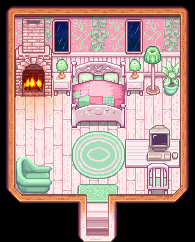
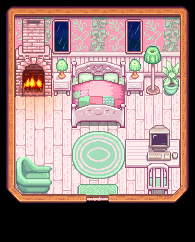
His flat-door empty cabin: no stairs, door in the bottom wall, every room theme updated, door spots moved

Changed region(s): [[0.4, 0.781, 0.6154, 1.0]]

diff --git a/index.html b/index.html
@@ -1024,7 +1024,7 @@ SKINS.forEach(s=>{if(s.rar!=='common')s.from='Mafia Case';});
 const OWNED=new Set(SKINS.filter(s=>s.rar==='common').map(s=>s.id).concat('r_classic')); // what this player has unlocked: the common outfits to start, the rest come from the Mafia case
 const ROLE_SPR={mafia:'mafia',doctor:'doctor',jester:'jester',detective:'detective'};
 const IMG={};
-const BUILD='11131538'; // changes every push, so phones never show an old picture from their cache
+const BUILD='11131545'; // changes every push, so phones never show an old picture from their cache
 document.getElementById('buildTag').textContent='v'+BUILD; // which version this is, so an old cached copy is easy to spot
 /* ================= CABIN ROOMS (12 Nov 2026): what the Cabin Case holds =================
    Each room is ONE picture of the whole room in the game's 195x242 grid (assets/rooms/<id>.png, shrunk from his
@@ -1696,18 +1696,18 @@ scenes.vote={
 
 /* ---- CABIN: an empty room + furniture placed as objects (195 x 242 grid) ---- */
 const ROOM={
-  floor:[16,76,180,194], stairs:[84,194,112,232],
+  floor:[16,76,180,194], stairs:[84,194,112,197],   /* no stairs since 13 Nov (his flat door): just the doorway in the bottom wall */
   block:[[15,60,53,97],[52,60,71,97],[71,60,126,129],[126,60,145,97],[145,55,181,97],[126,136,181,196]],
   bed:{hit:[71,60,126,129],stand:[98,134],in:[98,106],head:[98,86],quilt:[72,88,125,128]},
   chair:{hit:[145,160,170,196],stand:[121,186],sit:[157,180],back:[146,168,171,194]},
   pc:{hit:[145,122,172,162]},
   arm:{hit:[15,155,53,194],stand:[60,182],sit:[36,184],front:[15,183,54,194]},
-  door:{hit:[84,194,112,240],stand:[98,226]},
+  door:{hit:[84,186,112,240],stand:[98,195]},
   fire:[23,75,22,16],   // the fireplace stands top-left against the back wall (his call, 10 Nov)
   windows:[[54,20,15,30],[127,20,15,30]],
 };
 const BED_LINE=80; // the fold of the sheet, in room pixels
-const CAB={x:98,y:200,tgt:null,path:null,dir:'back',walk:false,state:'stand',after:null,anim:null,clock:30,zz:[],pc:0};
+const CAB={x:98,y:190,tgt:null,path:null,dir:'back',walk:false,state:'stand',after:null,anim:null,clock:30,zz:[],pc:0};
 const inR=(r,x,y)=>x>=r[0]&&x<r[2]&&y>=r[1]&&y<r[3];
 function canStand(x,y){if(!(inR(ROOM.floor,x,y)||inR(ROOM.stairs,x,y)))return false;return!ROOM.block.some(r=>inR(r,x,y));}
 let ROOM_MASK=null,ROOM_VOID='#000',ROOM_OBJS=[];
@@ -1857,8 +1857,8 @@ cv.addEventListener('pointerdown',e=>{
   if(inR(B.hit,x,y)){intoBed();return;}
   if(inR(AR.hit,x,y)){intoArm();return;}
   if(inR(ROOM.door.hit,x,y)){goTo(ROOM.door.stand,()=>toast(raining?'You peek outside. It\'s pouring.':'You peek outside. All quiet…'));return;}
-  goTo([clamp(x,17,179),clamp(y,77,231)]);
-  holdWalk(e,scenes.cabin,(x,y)=>{if(CAB.state==='stand')goTo([clamp(x,17,179),clamp(y,77,231)]);});
+  goTo([clamp(x,17,179),clamp(y,77,193)]);
+  holdWalk(e,scenes.cabin,(x,y)=>{if(CAB.state==='stand')goTo([clamp(x,17,179),clamp(y,77,193)]);});
 });
 $('#pcYes').onclick=()=>{$('#pcModal').classList.remove('on');ckOpen();};
 $('#pcNo').onclick=()=>{$('#pcModal').classList.remove('on');};
@@ -2242,7 +2242,7 @@ PLAY.note=(T,dt,t)=>{const{rt,L,TW,VS,tSq,tM,vic:c,spot}=N,tA=N.tArr,tS=tA+.25,P
   if(T>tS)once('scr',()=>{N.shake=5;sfx('scream');});
   return{cx,cy,vw,people:P,doors:[[N.vci,doorK(T,TW-.2,TW+.8)]],texts,dark:Math.max(1-ramp(T,TW,TW+.7),0),lights:{dim:T<tSq-.5?.5:lerp(.5,.85,ramp(T,tSq-.5,tSq+.5)),lampK:T<tSq-.5?.55:1},flash:['170,10,20',pulse2(T,tS+.1)*.3]};};
 /* the cabin part: k = seconds since it began */
-function noteRoom(k,dt,t){$('#phone').style.background=ROOM_VOID;const nm=looksLike(N.victim),A=ROOM.arm,spot=[98,206],P=[];
+function noteRoom(k,dt,t){$('#phone').style.background=ROOM_VOID;const nm=looksLike(N.victim),A=ROOM.arm,spot=[98,184],P=[];
   useRoom(roomOf(N.victim));view(IMG.room,97,121,186,{fit:true,topCss:80,void:ROOM_VOID});
   rain(dt,ROOM.windows.map(w=>[X(w[0]),Y(w[1]),w[2],w[3]]));fireAcc+=dt;while(fireAcc>.06){stepFire();fireAcc-=.06;}
   const tUp=3,tAt=4.6,tPick=5.6,tRead=6,tDone=9.4,sit=k<tUp;
@@ -2251,9 +2251,9 @@ function noteRoom(k,dt,t){$('#phone').style.background=ROOM_VOID;const nm=looksL
   else if(k<tAt){const e=ramp(k,tUp,tAt);P.push({name:nm,dir:dirFrom(spot[0]-A.stand[0],spot[1]-A.stand[1]),x:lerp(A.stand[0],spot[0],e),y:lerp(A.stand[1],spot[1],e),t,walk:true,vic:true});}
   else if(k<tPick)P.push({name:nm,dir:'right',pose:'bend',x:spot[0]-4,y:spot[1],t,vic:true});
   else if(k<tDone)P.push({name:nm,dir:'front',x:spot[0],y:spot[1],t,vic:true});
-  else{const e=ramp(k,tDone,tDone+.8);P.push({name:nm,dir:'front',x:spot[0],y:lerp(spot[1],226,e),t,walk:true,alpha:1-ramp(k,tDone+.4,tDone+.9),vic:true});}
+  else{const e=ramp(k,tDone,tDone+.8);P.push({name:nm,dir:'front',x:spot[0],y:lerp(spot[1],197,e),t,walk:true,alpha:1-ramp(k,tDone+.4,tDone+.9),vic:true});}
   const hits=drawScene(P,null,IMG.room,ROOM_OBJS);if(sit)patchObj('armchair',A.front);
-  if(k>1.9&&k<tPick-.2){const ny=lerp(238,214,ease(ramp(k,1.9,2.5)));px(96,ny-1,9,6,'#1a1430');px(97,ny,7,4,'#f6ecd2');px(98,ny+1,4,1,'#b9a98a');px(98,ny+2,3,1,'#b9a98a');}   /* the note on the floor */
+  if(k>1.9&&k<tPick-.2){const ny=lerp(197,188,ease(ramp(k,1.9,2.5)));px(96,ny-1,9,6,'#1a1430');px(97,ny,7,4,'#f6ecd2');px(98,ny+1,4,1,'#b9a98a');px(98,ny+2,3,1,'#b9a98a');}   /* the note on the floor */
   const fl=.5+.5*noise(t*1.7,2);lights(roomLights(fl,0),t,ROOM_MASK);
   if(k>2.6&&k<tUp+.3){const h=hits.get(P[0]);if(h){lx.fillStyle='#1a1430';lx.fillRect(h.cx+5,h.top-9,4,8);lx.fillStyle='#ffd25e';lx.fillRect(h.cx+6,h.top-8,2,4);lx.fillRect(h.cx+6,h.top-3,2,1);}}   /* "!" : they noticed */
   /* THE CLOSE-UP: the note, big, written out a letter at a time */
@@ -2892,7 +2892,7 @@ function ghostCards(){$('#ghostCards').innerHTML=PEOPLE.map((p,i)=>i?`<div class
 // into a cabin (ci >= 0) or back outside (-1): the screen fades to black, the place changes, and it fades back in
 function ghostDoor(ci){if(G.fading||G.inCab===ci)return;G.fading=true;sfx('door');const xf=$('#xfade');xf.classList.add('on');
   setTimeout(()=>{const was=G.inCab;G.inCab=ci;G.goCab=-1;
-    if(ci>=0){G.rx=G.rtx=98;G.ry=G.rty=206;G.dir='back';$('#phone').style.background=ROOM_VOID;}   // you arrive just inside the door
+    if(ci>=0){G.rx=G.rtx=98;G.ry=G.rty=188;G.dir='back';$('#phone').style.background=ROOM_VOID;}   // you arrive just inside the door
     else{const c=TOWN.cabins[was];if(c){G.x=G.tx=c.cx;G.y=G.ty=c.top+44;}G.dir='front';$('#phone').style.background='';}
     ghostCards();ghostHud();xf.classList.remove('on');setTimeout(()=>G.fading=false,230);},240);}
 function ghostWatch(i){if(V.dead.has(i)){G.watch=-1;$('#ghostLine').textContent=`${PEOPLE[i].n} is dead too.`;return;}
@@ -2985,7 +2985,7 @@ function ghostRoom(dt,t){
   const kk=i===N.victim&&N.kind==='home'?N.t-(N.tCut-6):-1;
   if(kk>0){people.length=0;cover=null;head=false;people.push(...killRoom(looksLike(i),kk,N.heal,t));}
   {const dx=G.rtx-G.rx,dy=G.rty-G.ry,dd=Math.hypot(dx,dy),sp=80*dt;
-    if(dd>sp){G.rx+=dx/dd*sp;G.ry+=dy/dd*sp;G.dir=dirFrom(dx,dy);}else{G.rx=G.rtx;G.ry=G.rty;if(G.ry>=214&&!G.fading){G.watch=-1;ghostDoor(-1);}}}   // you chose to leave: stop following
+    if(dd>sp){G.rx+=dx/dd*sp;G.ry+=dy/dd*sp;G.dir=dirFrom(dx,dy);}else{G.rx=G.rtx;G.ry=G.rty;if(G.ry>=195&&!G.fading){G.watch=-1;ghostDoor(-1);}}}   // you chose to leave: stop following
   const gme=ghostMe(G.rx,G.ry,t);people.push(gme);
   const hits=drawScene(people,null,IMG.room,ROOM_OBJS);
   if(head){const d=SP[nm].front,crop=Math.min(d.h,d.eyeBot+10),hx=X(ROOM.bed.head[0])-Math.floor(d.w/2),hy=Y(BED_LINE)-(d.eyeBot+3);lx.drawImage(d.frames[0][1],0,0,d.w,crop,hx,hy,d.w,crop);drawQuilt(1);}
@@ -2997,10 +2997,10 @@ function ghostRoom(dt,t){
   for(const[q,h]of hits){if(q===gme)nameTag(h,'You','#9fd8ff');else if(q.doc&&(q.alpha??1)>.8)nameTag(h,'Doctor','#9fe8b0');else if(q.name!=='mafia'&&i>=0&&!q.doc)nameTag(h,PEOPLE[i].n,'#fff');}
   drawMini(GAME.on?ghostOut():PLAY[N.kind](N.t,0,t),t);ghostHud();}
 cv.addEventListener('pointerdown',e=>{if(scene!==scenes.ghost||G.fading||document.querySelector('.modal.on'))return;
-  holdWalk(e,scenes.ghost,(x,y)=>{if(G.fading)return;if(G.inCab>=0){if(y<=196){G.rtx=clamp(x,20,176);G.rty=clamp(y+12,74,196);}}else{G.tx=clamp(x,20,540);G.ty=clamp(y+12,40,740);G.goCab=-1;}});
+  holdWalk(e,scenes.ghost,(x,y)=>{if(G.fading)return;if(G.inCab>=0){if(y<=186){G.rtx=clamp(x,20,176);G.rty=clamp(y+12,74,190);}}else{G.tx=clamp(x,20,540);G.ty=clamp(y+12,40,740);G.goCab=-1;}});
   const r=cv.getBoundingClientRect(),x=(e.clientX-r.left)*DPR/S+cam.x+(cam.fx||0),y=(e.clientY-r.top)*DPR/S+cam.y+(cam.fy||0);
   if(G.inCab>=0){ // in a cabin: fly anywhere in the room (ghosts go over the furniture); the doorway at the bottom leads out
-    if(y>196){G.rtx=98;G.rty=222;}else{G.rtx=clamp(x,20,176);G.rty=clamp(y+12,74,196);}return;}
+    if(y>186){G.rtx=98;G.rty=197;}else{G.rtx=clamp(x,20,176);G.rty=clamp(y+12,74,190);}return;}
   G.watch=-1;
   const ci=TOWN.cabins.findIndex(c=>Math.abs(x-c.cx)<44&&y>c.top-70&&y<c.top+34);
   if(ci>=0){const c=TOWN.cabins[ci];G.tx=c.cx;G.ty=c.top+30;G.goCab=ci;}else{G.tx=clamp(x,20,540);G.ty=clamp(y+12,40,740);G.goCab=-1;}});
@@ -3159,17 +3159,17 @@ function wlHit(e,a){const tg=a.tg;if(tg.loc!==e.loc||tg.ko||(!e.remote&&Math.hyp
 // in and out of a cabin. You: the screen fades through black. Bots just come and go.
 function wlDoor(ci){if(WL.fading)return;WL.fading=true;sfx('door');const xf=$('#xfade');xf.classList.add('on');
   setTimeout(()=>{const m=WL.me,was=m.loc;m.seat=null;m.loc=ci;m.path=[];m.todo=null;m.walk=false;WL.sel=null;wlMenu();
-    if(ci>=0){m.x=98;m.y=214;m.dir='back';$('#phone').style.background=ROOM_VOID;const o=CABIN_OF.indexOf(ci);
+    if(ci>=0){m.x=98;m.y=190;m.dir='back';$('#phone').style.background=ROOM_VOID;const o=CABIN_OF.indexOf(ci);
       wlHead(o===0?'Your cabin':o>0?`${PEOPLE[o].n}'s cabin`:'An empty cabin','Walk to the door to leave');}
     else{const c=TOWN.cabins[was];m.x=c.cx;m.y=c.top+38;m.dir='front';$('#phone').style.background='';wlHead();}
     $('#townCount').style.display=ci>=0?'none':'';netMove();xf.classList.remove('on');setTimeout(()=>WL.fading=false,230);},240);}
 function wlBotDoor(b,ci){const was=b.loc;b.path=[];b.todo=null;b.walk=false;
-  if(ci>=0){b.loc=ci;b.x=98;b.y=212;b.dir='back';b.stay=2+Math.floor(Math.random()*3);if(WL.me.loc===ci)wlSay(`${wlName(b)} came in.`);}
+  if(ci>=0){b.loc=ci;b.x=98;b.y=190;b.dir='back';b.stay=2+Math.floor(Math.random()*3);if(WL.me.loc===ci)wlSay(`${wlName(b)} came in.`);}
   else{const c=TOWN.cabins[was];b.loc=-1;b.x=c.cx;b.y=c.top+38;b.dir='front';if(WL.me.loc===was)wlSay(`${wlName(b)} left.`);}}
 // what a bot does next
 function wlThink(b){const r=Math.random();b.wait=1+Math.random()*3.5;
   if(b.grudge){const g=b.grudge;b.grudge=null;if(!g.ko&&g.loc===b.loc&&Math.random()<.65){wlDo(b,'punch',g);return;}}
-  if(b.loc>=0){if(b.seat){wlUp(b);return;}if(--b.stay<=0)wlGo(b,98,224,()=>wlBotDoor(b,-1));
+  if(b.loc>=0){if(b.seat){wlUp(b);return;}if(--b.stay<=0)wlGo(b,98,195,()=>wlBotDoor(b,-1));
     else if(Math.random()<.4){const k=SEATK[Math.floor(Math.random()*3)];if(!seatTaken(b,k)){const s=wlSeat(k,b);wlGo(b,s.stand[0],s.stand[1],()=>{wlSit(b,k);b.wait=4+Math.random()*6;});}}
     else wlGo(b,30+Math.random()*130,100+Math.random()*90);return;}
   if(r<.42){const p=wlSpot();wlGo(b,p[0],p[1]);}
@@ -3335,8 +3335,8 @@ cv.addEventListener('pointerdown',e=>{if(scene!==scenes.town||WL.fading||documen
   if(m.loc>=0){if(m.seat){wlUp(m);return;}
     if(inR(ROOM.pc.hit,x,y)){const s=ROOM.chair.stand;wlGo(m,s[0],s[1],()=>{wlSit(m,'chair');if(m.seat)setTimeout(()=>{if(scene===scenes.town&&m.seat&&!m.seat.out)ckOpen();},450);});return;}
     for(const k of SEATK)if(inR(ROOM[k].hit,x,y)){const s=ROOM[k].stand;wlGo(m,s[0],s[1],()=>wlSit(m,k));return;}
-    if(y>198||inR(ROOM.door.hit,x,y)){wlGo(m,98,226,()=>wlDoor(-1));return;}
-    wlGo(m,clamp(x,17,179),clamp(y,77,231));holdWalk(e,scenes.town,(x,y)=>{const m=WL.me;if(m.loc>=0&&!m.ko&&y<=198)wlGo(m,clamp(x,17,179),clamp(y,77,231));});return;}
+    if(y>198||inR(ROOM.door.hit,x,y)){wlGo(m,98,195,()=>wlDoor(-1));return;}
+    wlGo(m,clamp(x,17,179),clamp(y,77,193));holdWalk(e,scenes.town,(x,y)=>{const m=WL.me;if(m.loc>=0&&!m.ko&&y<=186)wlGo(m,clamp(x,17,179),clamp(y,77,193));});return;}
   if(Math.hypot(x-WHEEL_AT[0],y-(WHEEL_AT[1]-27))<26){wlGo(m,WHEEL_AT[0],WHEEL_AT[1]+14,()=>{m.dir='back';wheelOpen();});return;}
   const ci=TOWN.cabins.findIndex(c=>Math.abs(x-c.cx)<34&&y>c.top-32&&y<c.top+32);   // the walls and the door (the roof is not: tap it to walk round the back)
   if(ci>=0){const c=TOWN.cabins[ci];wlGo(m,c.cx,c.top+36,()=>wlDoor(ci));return;}

diff --git a/tools/flat_door_rooms.py b/tools/flat_door_rooms.py
@@ -1,0 +1,42 @@
+"""His new empty cabin (13 Nov 2026): the stairs and the old door are gone, the door is now flat in the bottom wall.
+  * copies his room-empty-flat-door.png in as the base room (the old one is kept in assets/room-objects/_old-room/)
+  * the Cabin Case themes (assets/rooms/*.png) were made from the old base, so the same change is made on each of
+    them: every pixel that changed in the base is painted in the theme's own colours. Each base colour is matched to
+    the colour the theme uses for it (worked out from the rest of the room), so the walls and the door keep the theme.
+Run once:  python -I tools/flat_door_rooms.py   (from the game folder)"""
+import os, shutil
+import numpy as np
+from PIL import Image
+SRC = r'C:\Users\Chris\Dropbox\Documents\chrispy games\cabin assets\room-empty-flat-door.png'
+BASE = 'assets/room-objects/room-empty.png'
+os.makedirs('assets/room-objects/_old-room', exist_ok=True)
+old_p = 'assets/room-objects/_old-room/room-empty-stairs.png'
+if not os.path.exists(old_p):
+    shutil.copy(BASE, old_p)
+old = np.asarray(Image.open(old_p).convert('RGB')).astype(int)
+new = np.asarray(Image.open(SRC).convert('RGB')).astype(int)
+assert old.shape == new.shape
+changed = np.abs(old - new).sum(2) > 0
+print('changed px', int(changed.sum()))
+Image.fromarray(new.astype(np.uint8)).save(BASE, optimize=True)
+keys = [tuple(c) for c in old.reshape(-1, 3)]
+for f in sorted(os.listdir('assets/rooms')):
+    if not f.endswith('.png') or f.endswith('-t.png'):
+        continue
+    p = 'assets/rooms/' + f
+    th = np.asarray(Image.open(p).convert('RGB')).astype(int)
+    # base colour -> the colour the theme uses there (median over the unchanged room)
+    flat_old, flat_th, ok = old.reshape(-1, 3), th.reshape(-1, 3), (~changed).reshape(-1)
+    m = {}
+    for c in np.unique(flat_old[ok], axis=0):
+        sel = ok & np.all(flat_old == c, axis=1)
+        m[tuple(c)] = np.median(flat_th[sel], axis=0)
+    karr = np.array(list(m.keys())); varr = np.array(list(m.values()))
+    out = th.copy()
+    ys, xs = np.nonzero(changed)
+    for y, x in zip(ys, xs):
+        c = new[y, x]
+        d = np.abs(karr - c).sum(1); i = int(np.argmin(d))
+        out[y, x] = np.clip(varr[i] + (c - karr[i]), 0, 255)   # the theme's colour, nudged by how far off the nearest base colour was
+    Image.fromarray(out.astype(np.uint8)).save(p, optimize=True)
+    print(f, 'done')
